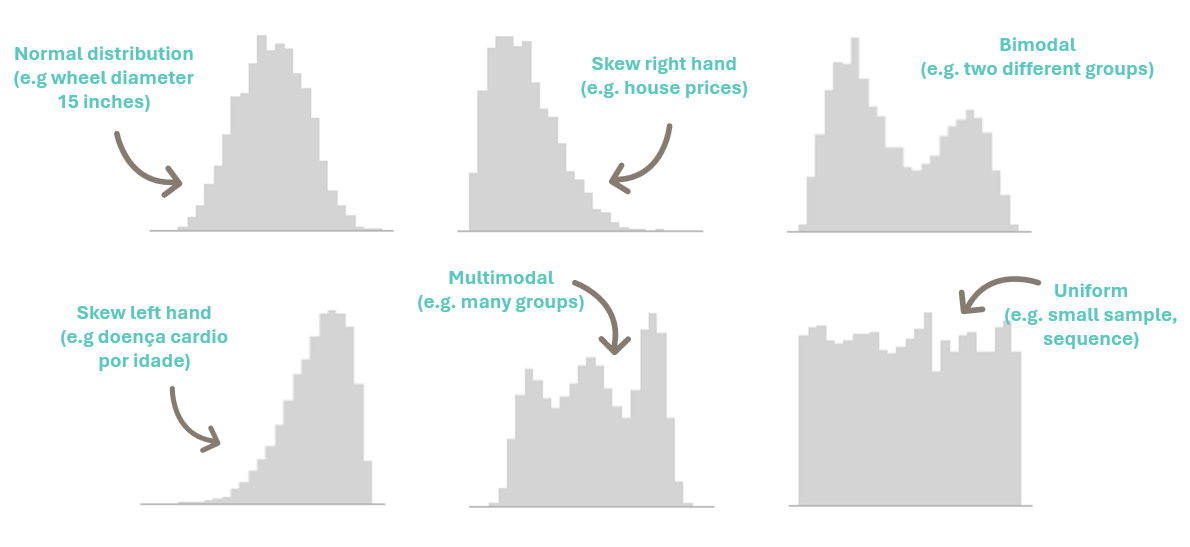
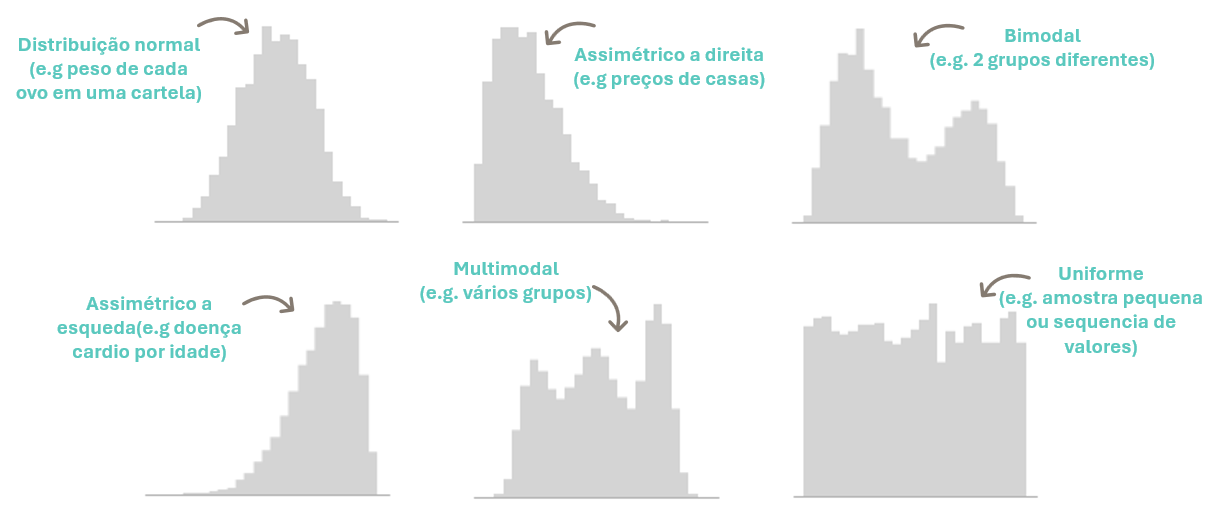
update histogram

diff --git a/docs/histograma.html b/docs/histograma.html
@@ -20,6 +20,40 @@ ul.task-list li input[type="checkbox"] {
   margin: 0 0.8em 0.2em -1em; /* quarto-specific, see https://github.com/quarto-dev/quarto-cli/issues/4556 */ 
   vertical-align: middle;
 }
+/* CSS for syntax highlighting */
+pre > code.sourceCode { white-space: pre; position: relative; }
+pre > code.sourceCode > span { line-height: 1.25; }
+pre > code.sourceCode > span:empty { height: 1.2em; }
+.sourceCode { overflow: visible; }
+code.sourceCode > span { color: inherit; text-decoration: inherit; }
+div.sourceCode { margin: 1em 0; }
+pre.sourceCode { margin: 0; }
+@media screen {
+div.sourceCode { overflow: auto; }
+}
+@media print {
+pre > code.sourceCode { white-space: pre-wrap; }
+pre > code.sourceCode > span { display: inline-block; text-indent: -5em; padding-left: 5em; }
+}
+pre.numberSource code
+  { counter-reset: source-line 0; }
+pre.numberSource code > span
+  { position: relative; left: -4em; counter-increment: source-line; }
+pre.numberSource code > span > a:first-child::before
+  { content: counter(source-line);
+    position: relative; left: -1em; text-align: right; vertical-align: baseline;
+    border: none; display: inline-block;
+    -webkit-touch-callout: none; -webkit-user-select: none;
+    -khtml-user-select: none; -moz-user-select: none;
+    -ms-user-select: none; user-select: none;
+    padding: 0 4px; width: 4em;
+  }
+pre.numberSource { margin-left: 3em;  padding-left: 4px; }
+div.sourceCode
+  {   }
+@media screen {
+pre > code.sourceCode > span > a:first-child::before { text-decoration: underline; }
+}
 </style>
 
 
@@ -256,12 +290,7 @@ ul.task-list li input[type="checkbox"] {
     <h2 id="toc-title">Table of contents</h2>
    
   <ul>
-  <li><a href="#o-que-é" id="toc-o-que-é" class="nav-link active" data-scroll-target="#o-que-é">O que é</a>
-  <ul class="collapse">
-  <li><a href="#característias-técnicas" id="toc-característias-técnicas" class="nav-link" data-scroll-target="#característias-técnicas">Característias técnicas</a></li>
-  <li><a href="#informações-apresentadas-no-gráfico" id="toc-informações-apresentadas-no-gráfico" class="nav-link" data-scroll-target="#informações-apresentadas-no-gráfico">Informações apresentadas no gráfico</a></li>
-  <li><a href="#tipos-de-gráficos-de-controle" id="toc-tipos-de-gráficos-de-controle" class="nav-link" data-scroll-target="#tipos-de-gráficos-de-controle">Tipos de gráficos de controle</a></li>
-  </ul></li>
+  <li><a href="#o-que-é" id="toc-o-que-é" class="nav-link active" data-scroll-target="#o-que-é">O que é</a></li>
   <li><a href="#qual-o-objetivo" id="toc-qual-o-objetivo" class="nav-link" data-scroll-target="#qual-o-objetivo">Qual o objetivo</a></li>
   <li><a href="#de-onde-vem" id="toc-de-onde-vem" class="nav-link" data-scroll-target="#de-onde-vem">De onde vem</a></li>
   <li><a href="#como-fazer" id="toc-como-fazer" class="nav-link" data-scroll-target="#como-fazer">Como fazer</a></li>
@@ -296,32 +325,30 @@ ul.task-list li input[type="checkbox"] {
 <section id="o-que-é" class="level2 unnumbered">
 <h2 class="unnumbered anchored" data-anchor-id="o-que-é">O que é</h2>
 <ul>
-<li><p>É uma ferramenta visual que permite explorar a ideia da distribuição e a organização dos dados.</p></li>
-<li><p>É um gráfico de barras que mostra quantas vezes(frequência) os dados caem dentro de certos intervalos também chamados de classes.</p></li>
-<li><p>diferente de um gráfico de barras comum, ele não representa categorias distintas, mas faixas contínuas de valores.</p></li>
+<li><p>É uma ferramenta visual que permite explorar a ideia da distribuição e a organização dos dados. É um tipo diferente de gráfico de barras onde a maior frequencia de dados se concentra no meio do gráfico, é por isso que ele parece uma montanha ou um sino.</p></li>
+<li><p>O gráfico mostra como os dados estão distribuídos em torno de uma média, agrupando os dados em faixas(classes) que mostra qantos valores caem em cada faixa.</p></li>
 </ul>
 <p>Exemplo: Se você mede a altura de 100 pessoas, o histograma pode mostrar quantas pessoas têm entre 1.60 e 1.75, entre 1.75 a 1.85, e assim por diante.</p>
-<section id="característias-técnicas" class="level3 unnumbered">
-<h3 class="unnumbered anchored" data-anchor-id="característias-técnicas">Característias técnicas</h3>
+<p><strong>Característias técnicas</strong></p>
+<ul>
+<li><p>O peso das abóboras é simétrico ou seja a maior parte delas pesa em média 10 kgs cada uma.</p></li>
+<li><p>A distribuição de problemas cardíacos por idade, é assimétrica a esquerda ou seja, a ocorrência de casos em pessoas com 20 anos é muito baixa, a maior parte está concentrada em 67 acima.</p></li>
+<li><p>A distribuição dos preços das casas, é assimétrica a direita ou seja, a maioria das casas da amostra, possuem preços por volta de 450 mil, mas existem algumas poucas com preços bem elevados por volta de 2 milhões cada uma.</p></li>
+</ul>
 <div class="quarto-figure quarto-figure-center">
 <figure class="figure">
-<p><img src="images\histogram.png" class="img-fluid figure-img" width="699"></p>
+<p><img src="images\histograma_what.png" class="img-fluid figure-img" width="699"></p>
 <figcaption>Figura - Histogramas</figcaption>
 </figure>
 </div>
-</section>
-<section id="informações-apresentadas-no-gráfico" class="level3 unnumbered">
-<h3 class="unnumbered anchored" data-anchor-id="informações-apresentadas-no-gráfico">Informações apresentadas no gráfico</h3>
-</section>
-<section id="tipos-de-gráficos-de-controle" class="level3 unnumbered">
-<h3 class="unnumbered anchored" data-anchor-id="tipos-de-gráficos-de-controle">Tipos de gráficos de controle</h3>
+<p><strong>Tipos de distribuição dos dados</strong></p>
+<p>Para um estatístico ou melhorista de processos, cada formato do histograma o qual revela a distribuição dos dados, conta uma historia sobre os dados. Abaixo alguns exemplos de distribuições.</p>
 <div class="quarto-figure quarto-figure-center">
 <figure class="figure">
 <p><img src="images\histogram_types.png" class="img-fluid figure-img" width="699"></p>
 <figcaption>Tipos de Histogramas</figcaption>
 </figure>
 </div>
-</section>
 </section>
 <section id="qual-o-objetivo" class="level2 unnumbered">
 <h2 class="unnumbered anchored" data-anchor-id="qual-o-objetivo">Qual o objetivo</h2>
@@ -335,15 +362,112 @@ ul.task-list li input[type="checkbox"] {
 </section>
 <section id="de-onde-vem" class="level2 unnumbered">
 <h2 class="unnumbered anchored" data-anchor-id="de-onde-vem">De onde vem</h2>
+<ul>
+<li>A necessidade surgiu da análise estatística aplicada a qualidade, especialmente com o movimento da qualidade total (TQM) e o ciclo PDCA. Empresas precisavam entender como os processos se comportavam para melhorar os produtos, reduzir falhas e tomar decisões baseada em dados reais.</li>
+</ul>
+<p>No exemplo da figura abaixo</p>
+<ol type="1">
+<li>Causas especiais estão agindo no processo</li>
+<li>Elas são eliminadas, no entanto a variação está muito alta rompendo os limites da especificação.</li>
+<li>É feito um trabalho de redução da variação eliminando causas comuns de variação.</li>
+<li>O histograma nos mostra que o processo ficou estável e sob controle.</li>
+</ol>
+<div class="quarto-figure quarto-figure-center">
+<figure class="figure">
+<p><img src="images/histograma_de_onde_vem.png" class="img-fluid figure-img" width="699"></p>
+<figcaption>Exemplo do uso de histograma na visualização e ajuste de processos</figcaption>
+</figure>
+</div>
 </section>
 <section id="como-fazer" class="level2 unnumbered">
 <h2 class="unnumbered anchored" data-anchor-id="como-fazer">Como fazer</h2>
+<p><strong>Exemplo um histograma dos preços de casas em Ames Iowa em 2011</strong></p>
+<p>Podemos notar alguns detalhes na distribuição dos preços de imóveis. As linhas pontilhadas são a média de preços.</p>
+<ul>
+<li><p><strong>Não possui ar condicionado central - histograma vermelho</strong>: mostra que a quantidade de imóveis é pequena, a distribuição dos preços é normal com preços bem abaixo dos 200 mil dólares.</p></li>
+<li><p><strong>Possui ar condicionado central - histograma azul</strong>: mostra que a quantidade de imóveis é grande, a distribuição dos preços é assimétrica ou seja, muitas casas tem o preço próximoa 200 mil dólares e poucas casas tem preços acima de 600 mil.</p></li>
+</ul>
+<div class="cell" data-layout-align="center">
+<details class="code-fold">
+<summary>Code</summary>
+<div class="sourceCode cell-code" id="cb1"><pre class="sourceCode r code-with-copy"><code class="sourceCode r"><span id="cb1-1"><a href="#cb1-1" aria-hidden="true" tabindex="-1"></a><span class="fu">library</span>(modeldata)</span>
+<span id="cb1-2"><a href="#cb1-2" aria-hidden="true" tabindex="-1"></a><span class="fu">library</span>(ggpubr)</span>
+<span id="cb1-3"><a href="#cb1-3" aria-hidden="true" tabindex="-1"></a><span class="fu">library</span>(scales)</span>
+<span id="cb1-4"><a href="#cb1-4" aria-hidden="true" tabindex="-1"></a></span>
+<span id="cb1-5"><a href="#cb1-5" aria-hidden="true" tabindex="-1"></a><span class="fu">data</span>(<span class="st">"ames"</span>)</span>
+<span id="cb1-6"><a href="#cb1-6" aria-hidden="true" tabindex="-1"></a></span>
+<span id="cb1-7"><a href="#cb1-7" aria-hidden="true" tabindex="-1"></a>ames <span class="sc">%&gt;%</span> </span>
+<span id="cb1-8"><a href="#cb1-8" aria-hidden="true" tabindex="-1"></a>  <span class="fu">gghistogram</span>(<span class="at">x =</span> <span class="st">"Sale_Price"</span>,</span>
+<span id="cb1-9"><a href="#cb1-9" aria-hidden="true" tabindex="-1"></a>              <span class="at">add =</span> <span class="st">"mean"</span>,</span>
+<span id="cb1-10"><a href="#cb1-10" aria-hidden="true" tabindex="-1"></a>              <span class="at">rug =</span> <span class="cn">TRUE</span>,</span>
+<span id="cb1-11"><a href="#cb1-11" aria-hidden="true" tabindex="-1"></a>              <span class="at">fill =</span> <span class="st">"Central_Air"</span>)<span class="sc">+</span></span>
+<span id="cb1-12"><a href="#cb1-12" aria-hidden="true" tabindex="-1"></a>  <span class="fu">scale_x_continuous</span>(<span class="at">labels =</span> <span class="fu">label_number</span>(<span class="at">scale_cut =</span> <span class="fu">cut_short_scale</span>()))</span></code><button title="Copy to Clipboard" class="code-copy-button"><i class="bi"></i></button></pre></div>
+</details>
+<div class="cell-output-display">
+<div class="quarto-figure quarto-figure-center">
+<figure class="figure">
+<p><img src="histograma_files/figure-html/plot_histogram_ames-1.png" class="img-fluid quarto-figure quarto-figure-center figure-img" width="672"></p>
+</figure>
+</div>
+</div>
+</div>
+<p><strong>Exemplo um histograma com média de 10</strong></p>
+<p>Aqui um exemplo de histograma usado em manufatura onde especificação tem limite máximo de 12 e mínimo de 8. Podemos observar que a média de tamanho da peça é de 10 e a variação está dentro dos limites da especificação.</p>
+<div class="cell" data-layout-align="center">
+<details class="code-fold">
+<summary>Code</summary>
+<div class="sourceCode cell-code" id="cb2"><pre class="sourceCode r code-with-copy"><code class="sourceCode r"><span id="cb2-1"><a href="#cb2-1" aria-hidden="true" tabindex="-1"></a><span class="co">#packages</span></span>
+<span id="cb2-2"><a href="#cb2-2" aria-hidden="true" tabindex="-1"></a><span class="fu">library</span>(tidyverse)</span>
+<span id="cb2-3"><a href="#cb2-3" aria-hidden="true" tabindex="-1"></a><span class="fu">library</span> (ggQC)</span>
+<span id="cb2-4"><a href="#cb2-4" aria-hidden="true" tabindex="-1"></a><span class="fu">library</span>(patchwork)</span>
+<span id="cb2-5"><a href="#cb2-5" aria-hidden="true" tabindex="-1"></a></span>
+<span id="cb2-6"><a href="#cb2-6" aria-hidden="true" tabindex="-1"></a><span class="co">#data - para criar os gráficos b, c e d, altere os desvios padrão.</span></span>
+<span id="cb2-7"><a href="#cb2-7" aria-hidden="true" tabindex="-1"></a><span class="fu">set.seed</span>(<span class="dv">1221</span>)</span>
+<span id="cb2-8"><a href="#cb2-8" aria-hidden="true" tabindex="-1"></a>data_norm_dist <span class="ot">&lt;-</span></span>
+<span id="cb2-9"><a href="#cb2-9" aria-hidden="true" tabindex="-1"></a>  <span class="fu">data.frame</span>(<span class="at">process_id =</span> <span class="dv">1</span><span class="sc">:</span><span class="dv">1000</span>,</span>
+<span id="cb2-10"><a href="#cb2-10" aria-hidden="true" tabindex="-1"></a>             <span class="at">sub_group =</span> <span class="fu">rep</span>(<span class="dv">1</span><span class="sc">:</span><span class="dv">20</span>, <span class="at">each =</span> <span class="dv">5</span>),</span>
+<span id="cb2-11"><a href="#cb2-11" aria-hidden="true" tabindex="-1"></a>             <span class="at">process_value =</span> <span class="fu">rnorm</span>(<span class="at">n =</span> <span class="dv">1000</span>, <span class="at">mean =</span> <span class="dv">10</span>, <span class="at">sd =</span> .<span class="dv">5</span>))</span>
+<span id="cb2-12"><a href="#cb2-12" aria-hidden="true" tabindex="-1"></a></span>
+<span id="cb2-13"><a href="#cb2-13" aria-hidden="true" tabindex="-1"></a><span class="co">#Capability plot</span></span>
+<span id="cb2-14"><a href="#cb2-14" aria-hidden="true" tabindex="-1"></a>data_norm_dist <span class="sc">%&gt;%</span></span>
+<span id="cb2-15"><a href="#cb2-15" aria-hidden="true" tabindex="-1"></a>  <span class="fu">ggplot</span> (<span class="fu">aes</span> (<span class="at">x =</span> process_value ))<span class="sc">+</span></span>
+<span id="cb2-16"><a href="#cb2-16" aria-hidden="true" tabindex="-1"></a>  <span class="fu">geom_histogram</span>(<span class="at">bins =</span> <span class="dv">30</span>)<span class="sc">+</span></span>
+<span id="cb2-17"><a href="#cb2-17" aria-hidden="true" tabindex="-1"></a>  <span class="fu">geom_vline</span>(<span class="fu">aes</span> (<span class="at">xintercept =</span> <span class="fu">mean</span> (process_value)),</span>
+<span id="cb2-18"><a href="#cb2-18" aria-hidden="true" tabindex="-1"></a>             <span class="at">linetype =</span> <span class="st">"dashed"</span>)<span class="sc">+</span></span>
+<span id="cb2-19"><a href="#cb2-19" aria-hidden="true" tabindex="-1"></a>  <span class="fu">stat_QC_Capability</span>(<span class="at">LSL =</span> <span class="dv">8</span>,<span class="at">USL =</span> <span class="dv">12</span>,</span>
+<span id="cb2-20"><a href="#cb2-20" aria-hidden="true" tabindex="-1"></a>                     <span class="at">show.cap.summary =</span> <span class="fu">c</span>(<span class="st">"Cp"</span>,<span class="st">"Cpk"</span>),</span>
+<span id="cb2-21"><a href="#cb2-21" aria-hidden="true" tabindex="-1"></a>                     <span class="at">cap.summary.size =</span> <span class="dv">3</span>,</span>
+<span id="cb2-22"><a href="#cb2-22" aria-hidden="true" tabindex="-1"></a>                     <span class="at">method =</span> <span class="st">"XmR"</span>)<span class="sc">+</span></span>
+<span id="cb2-23"><a href="#cb2-23" aria-hidden="true" tabindex="-1"></a>  <span class="fu">scale_x_continuous</span> (<span class="at">expand =</span> <span class="fu">expansion</span> (<span class="at">mult =</span> <span class="fu">c</span>(.<span class="dv">15</span>,.<span class="dv">6</span>)))</span></code><button title="Copy to Clipboard" class="code-copy-button"><i class="bi"></i></button></pre></div>
+</details>
+<div class="cell-output-display">
+<div class="quarto-figure quarto-figure-center">
+<figure class="figure">
+<p><img src="histograma_files/figure-html/plot_histogram_cpk-1.png" class="img-fluid quarto-figure quarto-figure-center figure-img" width="672"></p>
+</figure>
+</div>
+</div>
+</div>
 </section>
 <section id="pra-onde-vai" class="level2 unnumbered">
 <h2 class="unnumbered anchored" data-anchor-id="pra-onde-vai">Pra onde vai</h2>
+<p>Depois de criado, o histograma pode ser usado:</p>
+<ul>
+<li>Em reuniões de análise de desempenho.</li>
+<li>Para identificar gargalos ou oportunidades de melhoria.</li>
+<li>Como base para decisões estratégicas, como mudanças em logística ou atendimento.</li>
+<li>Em relatórios gerenciais, para mostrar o comportamento de indicadores.</li>
+</ul>
 </section>
 <section id="qual-o-resultado" class="level2 unnumbered">
 <h2 class="unnumbered anchored" data-anchor-id="qual-o-resultado">Qual o resultado</h2>
+<ul>
+<li>Clareza sobre o comportamento dos dados.</li>
+<li>Identificação de padrões ou anomalias.</li>
+<li>Melhoria na tomada de decisão.</li>
+<li>Redução de variabilidade e aumento da previsibilidade.</li>
+<li>Base para ações corretivas ou preventivas.</li>
+</ul>
 </section>
 <section id="referências" class="level2 unnumbered">
 <h2 class="unnumbered anchored" data-anchor-id="referências">Referências</h2>
